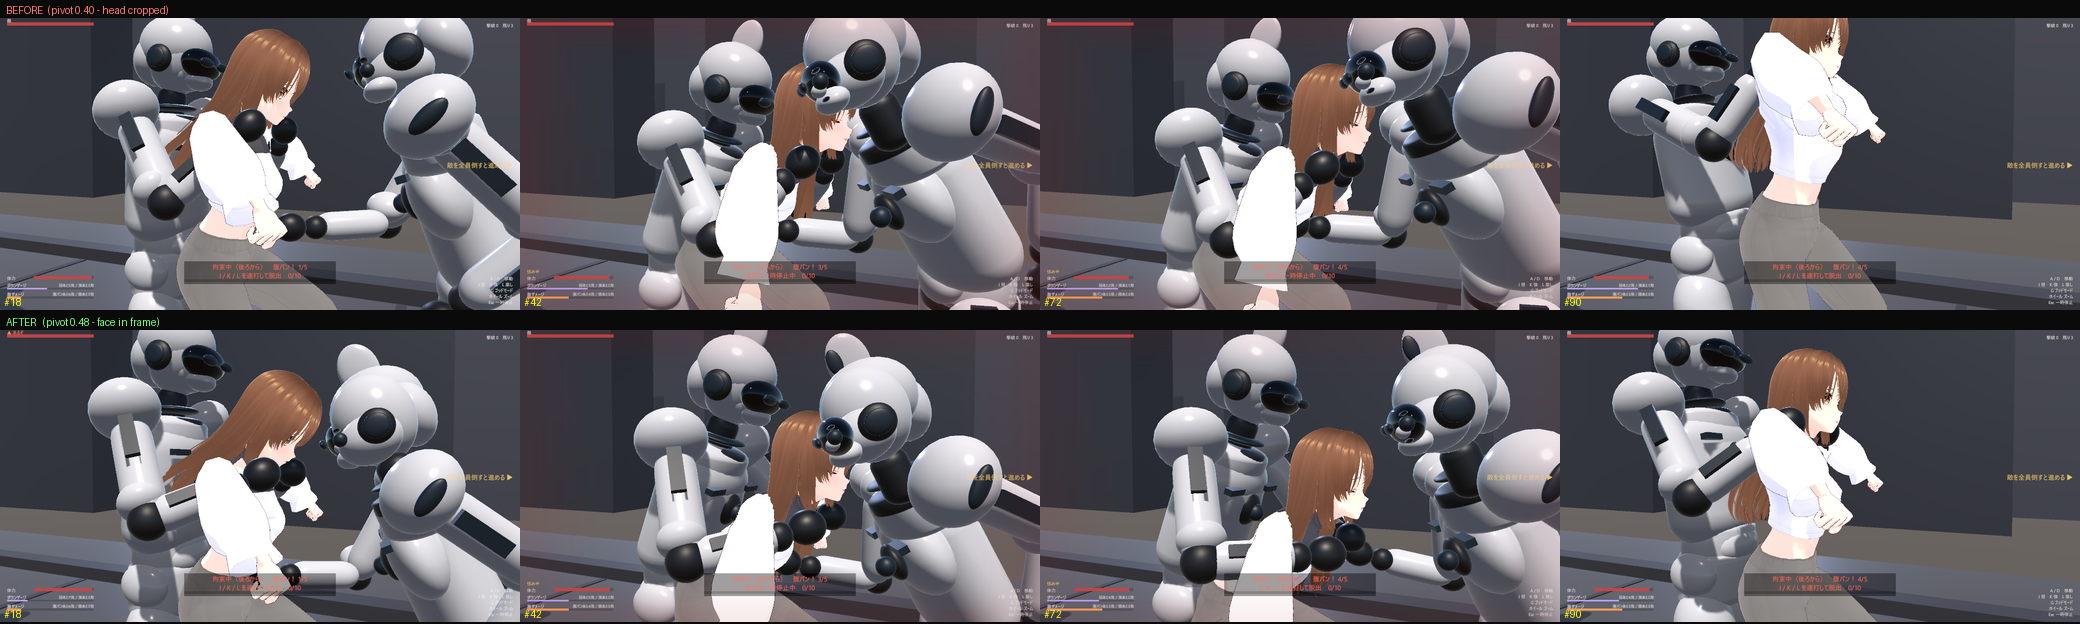
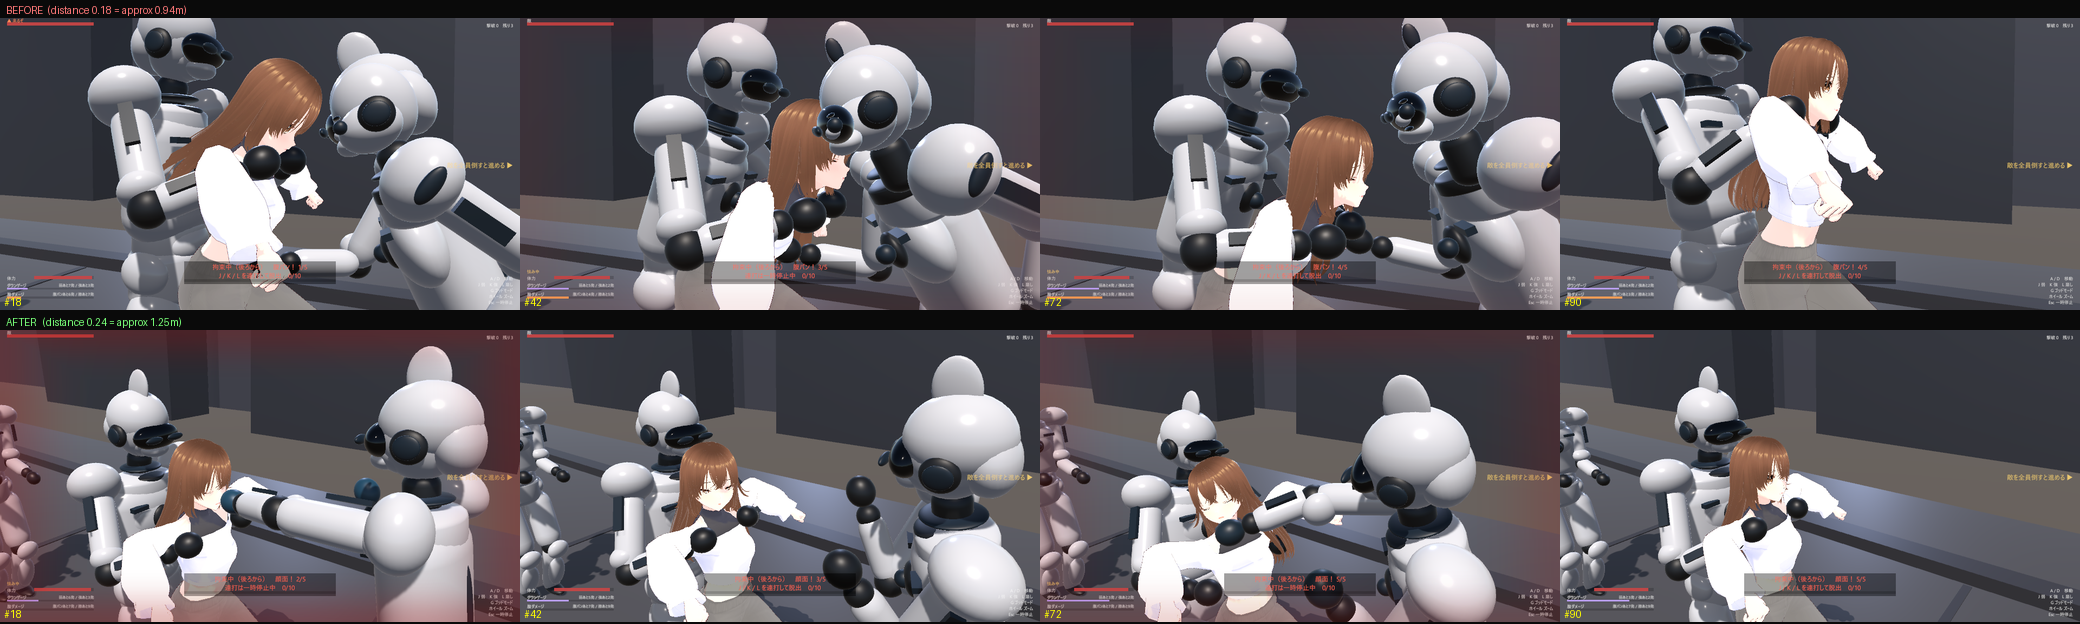
fix: 腹パンのカメラをもう少し引く（0.18 -> 0.24）
「もう少し画面を離してほしい」を受けて、約 0.94m -> 1.25m へ。
上半身と頭が余裕を持って入り、殴っている側の腕も画に入る。

0.25 が上限（HeldBellyPunchTests の「腹パンも彼女の表情と拳が読める距離まで寄る」が
EffectDistanceScale < 0.25 を要求）。さらに引くなら、その意図と引き換えになる。

HeldBellyPunchTests 33 件通過。

diff --git a/MioPrototype/Assets/RyonaGame/Runtime/Feel/HeldBellyPunchDirector.cs b/MioPrototype/Assets/RyonaGame/Runtime/Feel/HeldBellyPunchDirector.cs
@@ -62,7 +62,7 @@ namespace Ryona.Game
 
         [Header("Camera")]
         [Tooltip("腹パン中のカメラ距離倍率（1 未満で寄る）。0.30 で約 1.6m（基本距離 5.2m × 0.30）")]
-        public float CameraDistanceScale = 0.18f;
+        public float CameraDistanceScale = 0.24f;
 
         [Tooltip("腹パン中のピボット上下（正で上がる）。脚を切って腹と顔を入れる高さ")]
         public float CameraPivotOffset = 0.48f;

diff --git a/Motion-Notes.md b/Motion-Notes.md
@@ -736,7 +736,10 @@
 - **計測**: 腹パン中に頭の骨をビューポートへ投影したところ、**画面外へ 0.038 はみ出していた**
   （上端で切れている）。テスト `腹パン中も彼女の顔が画面に入る` を追加して固定した。
 - **修正**: `CameraPivotOffset 0.40 → 0.48`。注視点が上がるぶん彼女が画面内で下がり、頭に余裕ができる。
-  距離（0.18 ≒ 0.94m）とヨーは変えない（寄りは「表情と拳が読める」ため既存テストが守っている）。
+  続けて「もう少し画面を離して」の要望で `CameraDistanceScale 0.18 → 0.24`（約 0.94 → 1.25m）。
+  これで上半身と頭が余裕を持って入る。
+  **0.25 が上限**（`HeldBellyPunchTests` の「表情と拳が読める距離まで寄る」が `< 0.25` を要求）。
+  さらに引くなら、そのテストの意図（表情が読めること）と引き換えになる。
 - **確認**: 比較映像 [belly-punch-camera-before-after.png](docs/verification/belly-punch-camera-before-after.png)。
   `HeldBellyPunchTests` 33 件通過（新テスト込み）。
 
